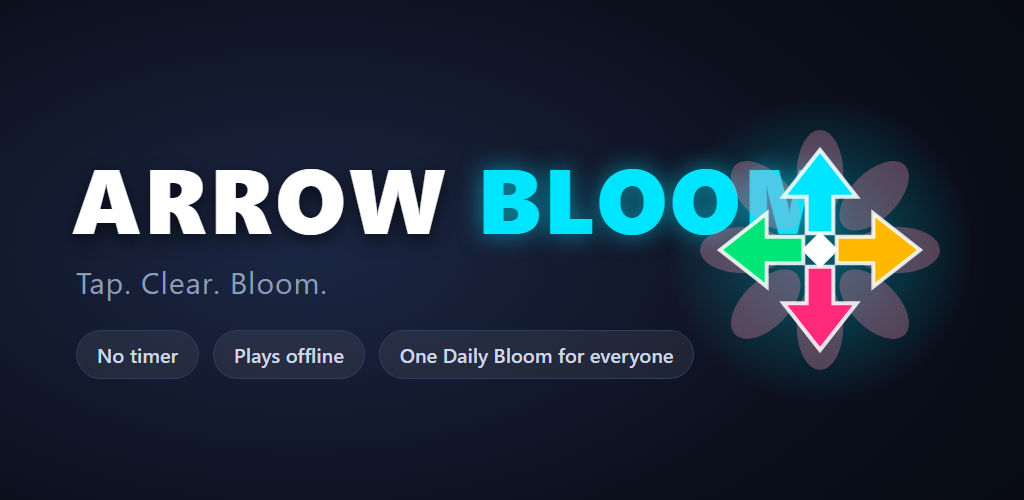
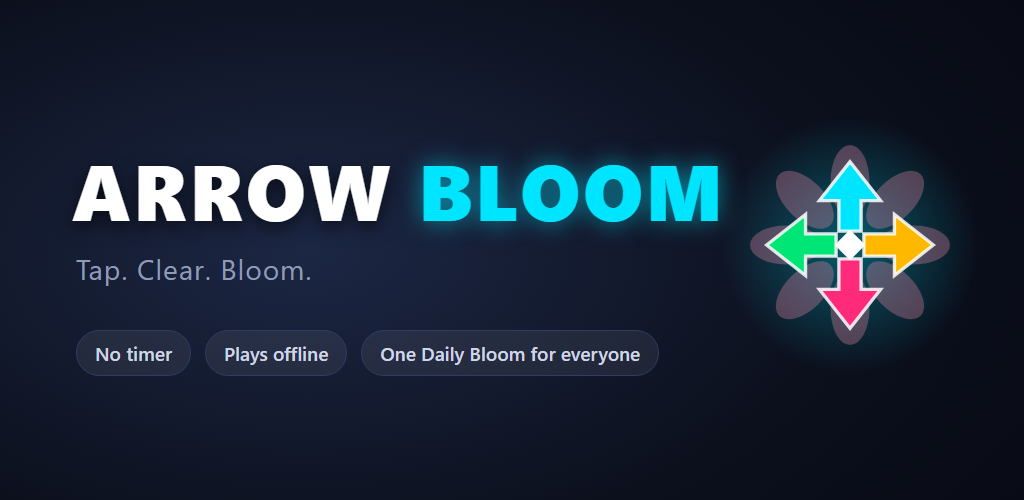
feat: debug-only walkthrough hooks, store listing copy, framed screenshots and feature graphic
- GameViewModel/GameScreen: long-press on the score auto-taps one free arrow, long-press on the
  title jumps to the next garden; both compiled only when BuildConfig.DEBUG so release builds
  carry no test hooks.
- store/listing_v1.json: title, short and full description in 8 locales, with no "no ads" or
  "no in-app purchases" claims.
- store/screenshots: six 1080x1920 framed phone screenshots (raw captures kept in src/) made by
  tools/store-screenshots.js; feature graphic title shrunk so the wordmark no longer overlaps
  the emblem.

diff --git a/tools/store-screenshots.js b/tools/store-screenshots.js
@@ -1,0 +1,39 @@
+// Frames the raw emulator captures in store/screenshots/src/*.png (1080x2400) as 1080x1920 (9:16) Play
+// phone screenshots with a caption, rendered by headless Chrome. Play rejects images taller than 2:1,
+// so raw 1080x2400 captures cannot be uploaded as they are.
+//   node tools/store-screenshots.js            (needs Chrome at the path below, or set CHROME=...)
+const fs = require('fs');
+const path = require('path');
+const { execSync } = require('child_process');
+const DIR = path.resolve(__dirname, '../store/screenshots').replace(/\/g, '/');
+const CHROME = process.env.CHROME || 'C:/Program Files/Google/Chrome/Application/chrome.exe';
+const shots = [
+  ['01-home', 'Tap. Clear. Bloom.', 'A calm logic puzzle with no timer'],
+  ['02-level1', 'Tap an arrow with a clear path', 'It flies off the board the way it points'],
+  ['03-orchard', 'Long arrows need the whole body free', 'Order matters: clear what is in front first'],
+  ['04-daily', 'One Daily Bloom, the same for everyone', 'Keep a streak, share a spoiler-free result'],
+  ['05-daily-outcome', 'Stars for a clean solve, never for speed', 'Every escape blooms and plays a note'],
+  ['06-infinite', 'Five gardens, then Infinite Bloom', 'Every level generated and proven solvable'],
+];
+const accents = ['#5CF2C5', '#5CF2C5', '#FFB800', '#FF8FB1', '#FF8FB1', '#F8F4FF'];
+for (const [i, [name, title, sub]] of shots.entries()) {
+  const html = `<!doctype html><html><head><meta charset="utf-8"><style>
+html,body{margin:0;width:1080px;height:1920px;overflow:hidden;font-family:"Segoe UI",Roboto,Arial,sans-serif;background:#0C101D}
+.bg{position:absolute;inset:0;background:radial-gradient(900px 700px at 50% 20%,#1C2744 0%,#0C101D 55%,#070A14 100%)}
+.cap{position:absolute;left:0;right:0;top:92px;text-align:center;padding:0 70px}
+.t{color:#fff;font-size:58px;font-weight:900;line-height:1.1;letter-spacing:.5px;text-shadow:0 6px 18px rgba(0,0,0,.6)}
+.s{color:${accents[i]};font-size:30px;font-weight:600;margin-top:16px}
+.ph{position:absolute;left:50%;top:330px;transform:translateX(-50%);width:702px;height:1560px;border-radius:52px;overflow:hidden;border:6px solid #2E3D66;box-shadow:0 30px 80px rgba(0,0,0,.65)}
+.ph img{width:702px;height:1560px;display:block}
+</style></head><body><div class="bg"></div>
+<div class="cap"><div class="t">${title}</div><div class="s">${sub}</div></div>
+<div class="ph"><img src="file:///${DIR}/src/${name}.png"></div>
+</body></html>`;
+  const htmlPath = `${DIR}/${name}.html`;
+  fs.writeFileSync(htmlPath, html, 'utf8');
+  const out = `${DIR}/${name}.png`.replace(/\//g, '\');
+  execSync(`"${CHROME}" --headless=new --disable-gpu --hide-scrollbars --no-sandbox --window-size=1080,1920 --screenshot="${out}" "file:///${DIR}/${name}.html"`, { stdio: 'ignore', timeout: 90000 });
+  const b = fs.readFileSync(`${DIR}/${name}.png`);
+  console.log(name, b.readUInt32BE(16) + 'x' + b.readUInt32BE(20), Math.round(b.length / 1024) + ' KB');
+  fs.unlinkSync(htmlPath);
+}

diff --git a/app/src/main/java/com/aweagle/arrowbloom/ui/screens/GameScreen.kt b/app/src/main/java/com/aweagle/arrowbloom/ui/screens/GameScreen.kt
@@ -5,6 +5,9 @@ import androidx.compose.animation.fadeIn
 import androidx.compose.animation.fadeOut
 import androidx.compose.foundation.background
 import androidx.compose.foundation.border
+import androidx.compose.foundation.gestures.detectTapGestures
+import androidx.compose.ui.input.pointer.pointerInput
+import com.aweagle.arrowbloom.BuildConfig
 import androidx.compose.foundation.layout.Arrangement
 import androidx.compose.foundation.layout.Box
 import androidx.compose.foundation.layout.Column
@@ -83,9 +86,12 @@ fun GameScreen(state: GameUiState, vm: GameViewModel) {
                     val title = if (state.mode == RunMode.DAILY) stringResource(R.string.daily_number, state.dailyNumber)
                     else if (state.gardenSize > 0) stringResource(R.string.level_in_garden, stringResource(state.gardenNameRes), state.gardenPosition, state.gardenSize)
                     else stringResource(R.string.level_in_endless, stringResource(state.gardenNameRes), state.level)
-                    Text(title, color = state.palette.accent, style = MaterialTheme.typography.labelLarge, fontWeight = FontWeight.Bold, letterSpacing = 0.8.sp, maxLines = 1)
+                    // Debug builds only: long-press the title = next garden, long-press the score = auto-tap.
+                    val debugHook = if (BuildConfig.DEBUG) Modifier.pointerInput(Unit) { detectTapGestures(onLongPress = { vm.debugNextGarden() }) } else Modifier
+                    Text(title, color = state.palette.accent, style = MaterialTheme.typography.labelLarge, fontWeight = FontWeight.Bold, letterSpacing = 0.8.sp, maxLines = 1, modifier = debugHook)
                     val scoreDesc = stringResource(R.string.a11y_score, state.score)
-                    Text(state.score.toString(), color = TextPrimary, fontSize = 28.sp, fontWeight = FontWeight.Black, modifier = Modifier.clearAndSetSemantics { contentDescription = scoreDesc })
+                    val scoreHook = if (BuildConfig.DEBUG) Modifier.pointerInput(Unit) { detectTapGestures(onLongPress = { vm.debugAutoTap() }) } else Modifier
+                    Text(state.score.toString(), color = TextPrimary, fontSize = 28.sp, fontWeight = FontWeight.Black, modifier = scoreHook.clearAndSetSemantics { contentDescription = scoreDesc })
                 }
                 StarsRow(stars = state.starsSoFar, size = 20.dp, modifier = Modifier.padding(end = 6.dp))
             }

diff --git a/store/feature-1024x500.html b/store/feature-1024x500.html
@@ -3,18 +3,18 @@
 <style>
   html,body{margin:0;width:1024px;height:500px;overflow:hidden;font-family:"Segoe UI",Roboto,Arial,sans-serif}
   .bg{position:absolute;inset:0;background:radial-gradient(900px 500px at 30% 50%,#1C2744 0%,#0C101D 60%,#070A14 100%)}
-  .title{position:absolute;left:72px;top:150px;color:#fff;font-weight:900;font-size:92px;letter-spacing:3px;line-height:1;text-shadow:0 6px 18px rgba(0,0,0,.6)}
+  .title{position:absolute;left:72px;top:150px;color:#fff;font-weight:900;font-size:78px;letter-spacing:3px;line-height:1;text-shadow:0 6px 18px rgba(0,0,0,.6)}
   .title span{color:#00E5FF;text-shadow:0 0 24px rgba(0,229,255,.55)}
-  .tag{position:absolute;left:76px;top:262px;color:#8E9BB5;font-size:30px;letter-spacing:1px}
+  .tag{position:absolute;left:76px;top:250px;color:#8E9BB5;font-size:28px;letter-spacing:1px}
   .pill{position:absolute;left:76px;top:330px;display:flex;gap:14px}
-  .pill div{background:rgba(255,255,255,.07);border:1px solid #2E3D66;color:#CFD6E6;border-radius:999px;padding:10px 20px;font-size:20px;font-weight:600}
+  .pill div{background:rgba(255,255,255,.07);border:1px solid #2E3D66;color:#CFD6E6;border-radius:999px;padding:9px 18px;font-size:19px;font-weight:600}
 </style></head>
 <body>
 <div class="bg"></div>
 <div class="title">ARROW <span>BLOOM</span></div>
 <div class="tag">Tap. Clear. Bloom.</div>
 <div class="pill"><div>No timer</div><div>Plays offline</div><div>One Daily Bloom for everyone</div></div>
-<svg xmlns="http://www.w3.org/2000/svg" style="position:absolute;left:640px;top:70px" width="360" height="360" viewBox="0 0 108 108">
+<svg xmlns="http://www.w3.org/2000/svg" style="position:absolute;left:700px;top:95px" width="300" height="300" viewBox="0 0 108 108">
   <defs><radialGradient id="g" cx="50%" cy="50%" r="50%"><stop offset="0%" stop-color="#00E5FF" stop-opacity="0.35"/><stop offset="100%" stop-color="#00E5FF" stop-opacity="0"/></radialGradient></defs>
   <circle cx="54" cy="54" r="46" fill="url(#g)"/>
   <g opacity="0.3" fill="#FF8FB1">

diff --git a/app/src/main/java/com/aweagle/arrowbloom/ui/GameViewModel.kt b/app/src/main/java/com/aweagle/arrowbloom/ui/GameViewModel.kt
@@ -370,6 +370,26 @@ class GameViewModel(app: Application) : AndroidViewModel(app) {
         }
     }
 
+    // ----- debug-only test hooks (BuildConfig.DEBUG; R8 drops them from release) -----------
+
+    /** Taps the first escapable arrow, as a tester would with a hint. */
+    fun debugAutoTap() {
+        if (!BuildConfig.DEBUG) return
+        val e = engine ?: return
+        val id = e.getHintArrowId() ?: return
+        val arrow = e.board.getArrowById(id) ?: return
+        onCellTapped(arrow.head)
+    }
+
+    /** Jumps the Journey to the first level of the next garden. */
+    fun debugNextGarden() {
+        if (!BuildConfig.DEBUG) return
+        val current = engine?.takeIf { mode == RunMode.LEVEL }?.levelNumber ?: prefs.currentLevel
+        val next = Gardens.ALL.firstOrNull { it.firstLevel > current } ?: return
+        prefs.currentLevel = maxOf(prefs.currentLevel, next.firstLevel)
+        startLevel(next.firstLevel)
+    }
+
     fun onShared() {
         feedback.tap()
         analytics.event(Analytics.SHARE_RESULT)
